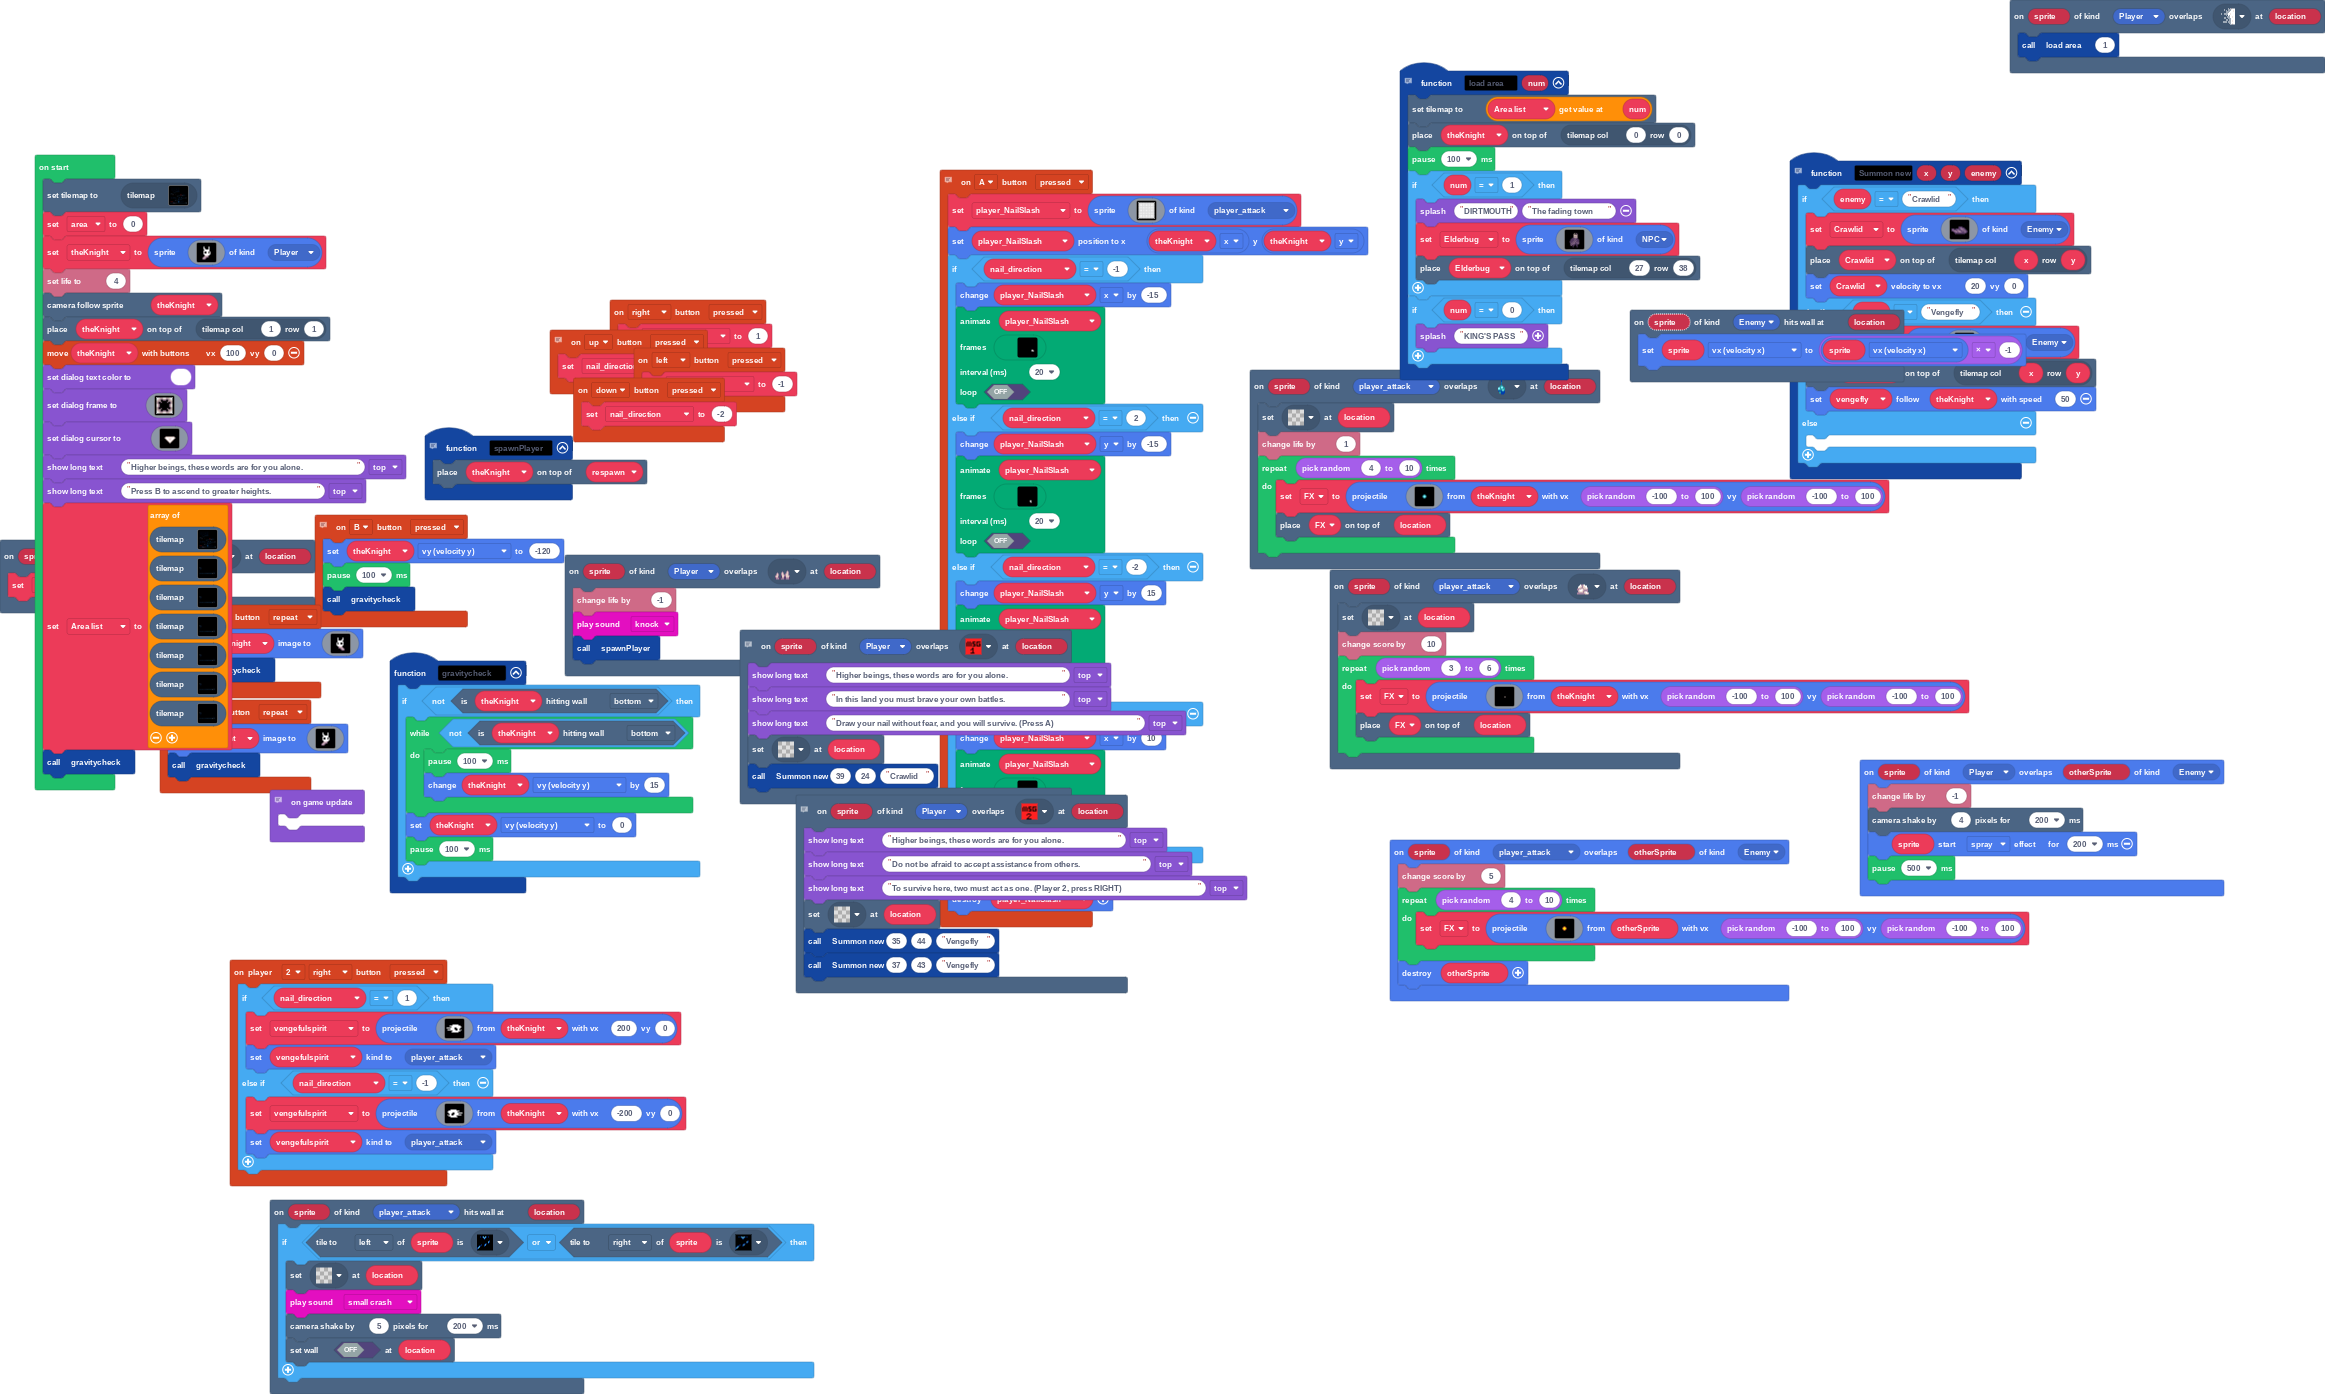
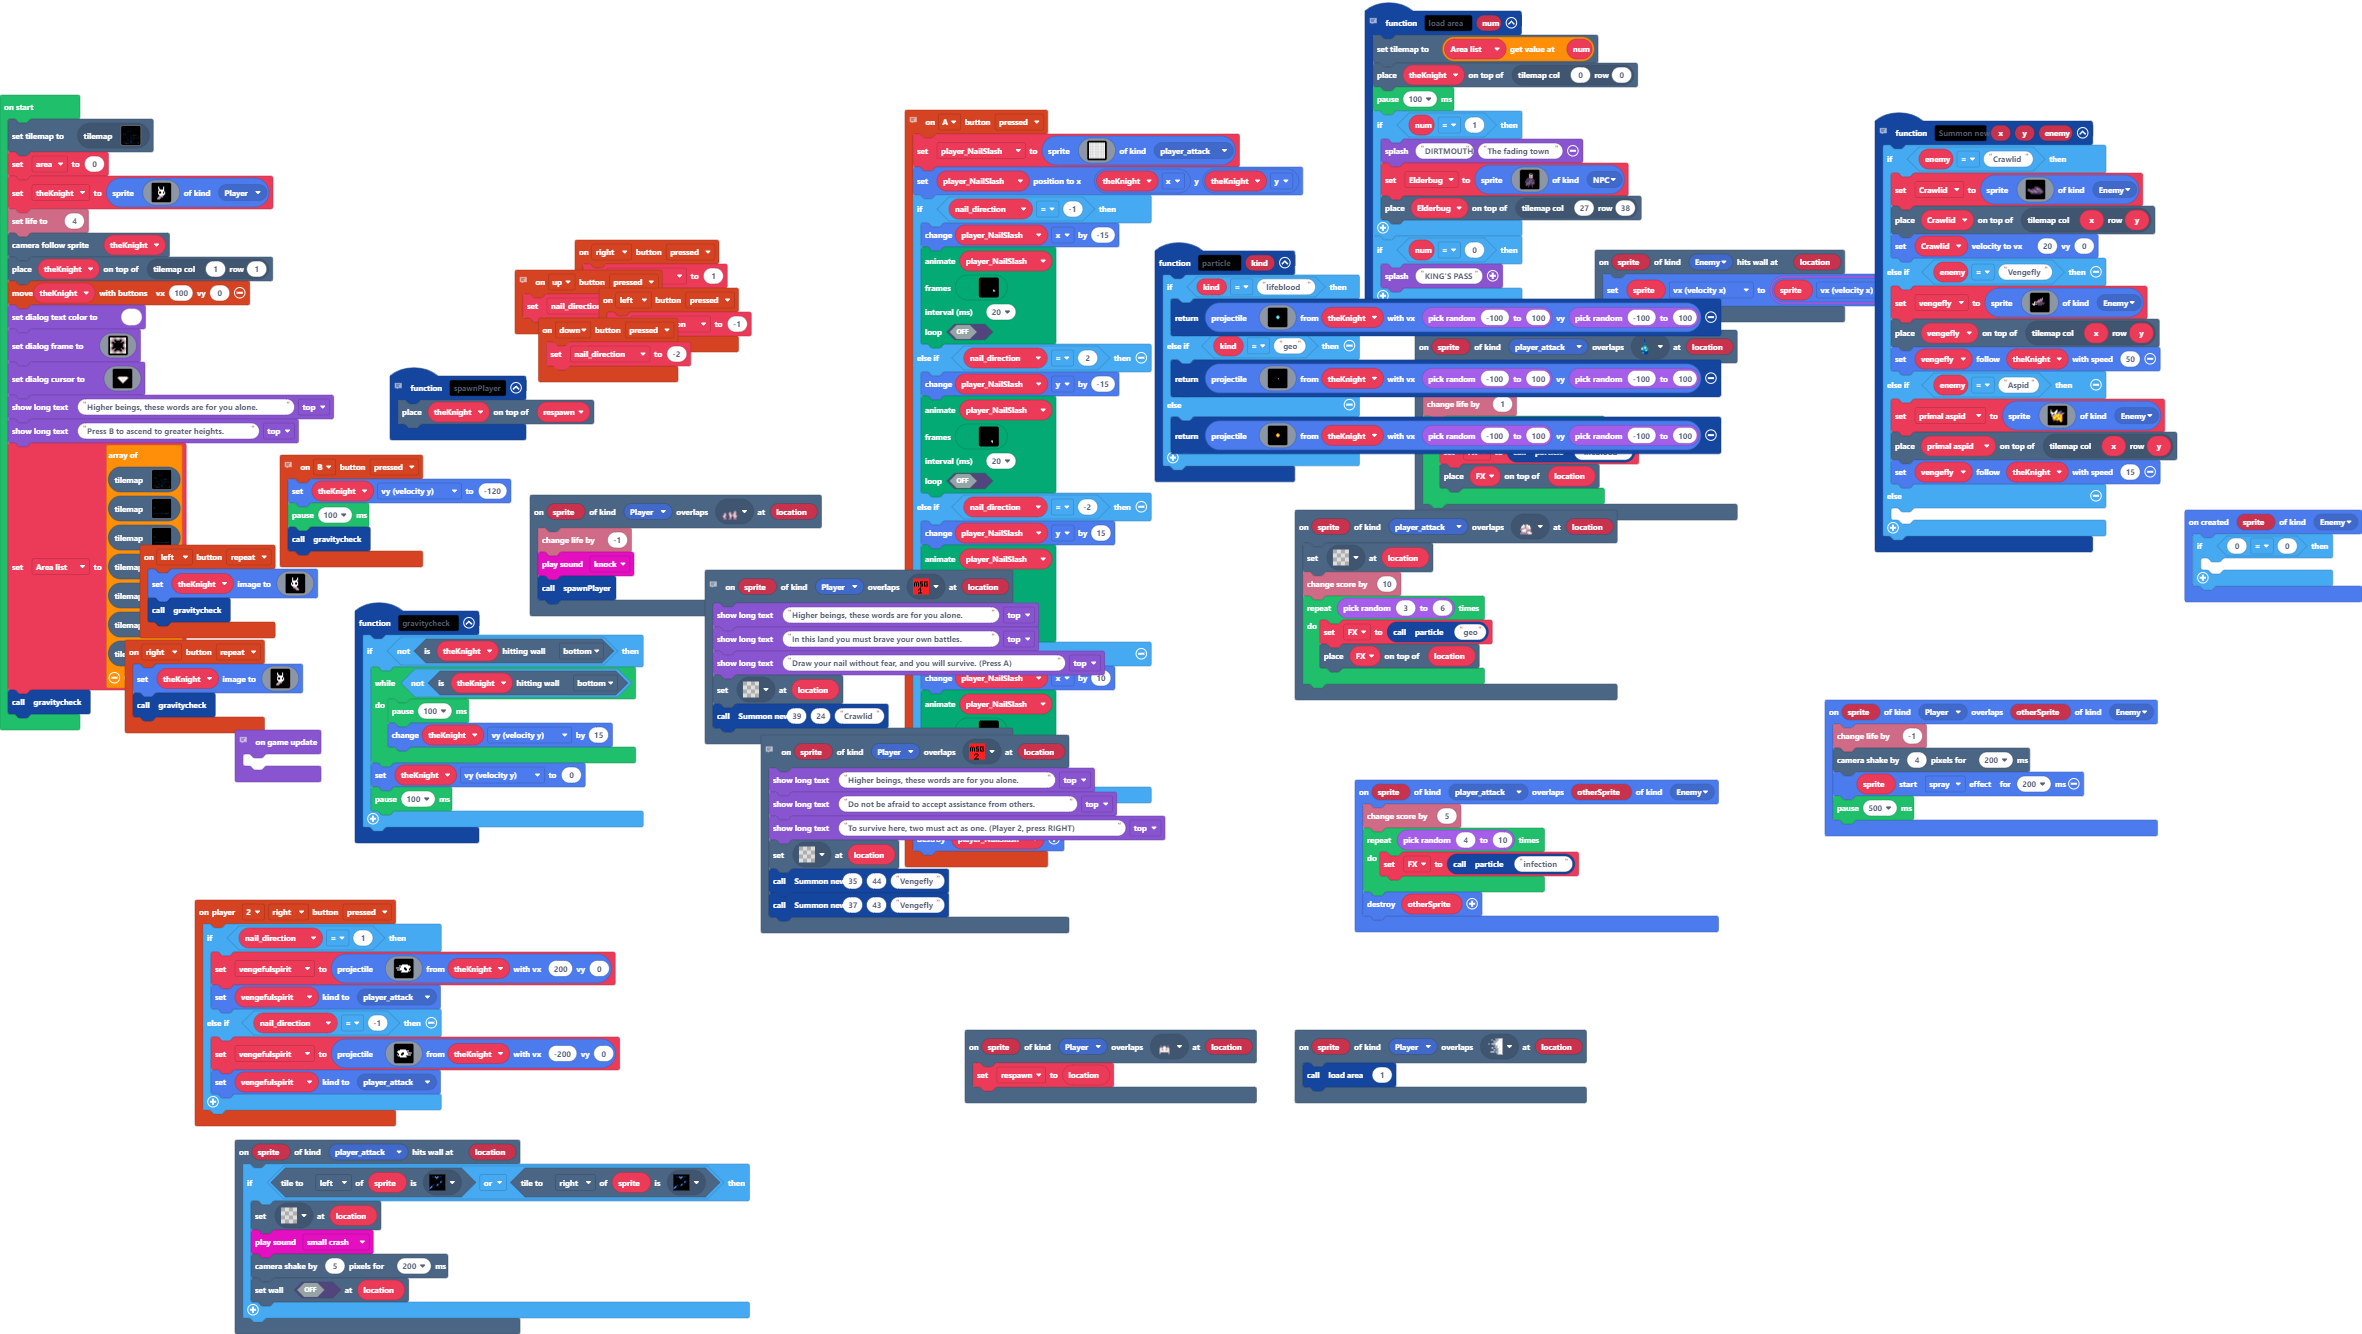
p

diff --git a/main.ts b/main.ts
@@ -2,6 +2,11 @@ namespace SpriteKind {
     export const player_attack = SpriteKind.create()
     export const NPC = SpriteKind.create()
 }
+sprites.onCreated(SpriteKind.Enemy, function (sprite) {
+    if (0 == 0) {
+    	
+    }
+})
 scene.onOverlapTile(SpriteKind.Player, assets.tile`light2`, function (sprite, location) {
     load_area(1)
 })
@@ -105,14 +110,23 @@ scene.onOverlapTile(SpriteKind.player_attack, assets.tile`lifeblood_cocoon`, fun
     tiles.setTileAt(location, assets.tile`transparency16`)
     info.changeLifeBy(1)
     for (let index = 0; index < randint(4, 10); index++) {
-        FX = sprites.createProjectileFromSprite(assets.image`lifeblood_particle`, theKnight, randint(-100, 100), randint(-100, 100))
+        FX = particle("lifeblood")
         tiles.placeOnTile(FX, location)
     }
 })
+function particle (kind: string) {
+    if (kind == "lifeblood") {
+        return sprites.createProjectileFromSprite(assets.image`lifeblood_particle`, theKnight, randint(-100, 100), randint(-100, 100))
+    } else if (kind == "geo") {
+        return sprites.createProjectileFromSprite(assets.image`geoparticle`, theKnight, randint(-100, 100), randint(-100, 100))
+    } else {
+        return sprites.createProjectileFromSprite(assets.image`infection_particle`, theKnight, randint(-100, 100), randint(-100, 100))
+    }
+}
 sprites.onOverlap(SpriteKind.player_attack, SpriteKind.Enemy, function (sprite, otherSprite) {
     info.changeScoreBy(5)
     for (let index = 0; index < randint(4, 10); index++) {
-        FX = sprites.createProjectileFromSprite(assets.image`infection_particle`, otherSprite, randint(-100, 100), randint(-100, 100))
+        FX = particle("infection")
     }
     otherSprite.destroy()
 })
@@ -136,7 +150,7 @@ scene.onOverlapTile(SpriteKind.player_attack, assets.tile`geo_cluster`, function
     tiles.setTileAt(location, assets.tile`transparency16`)
     info.changeScoreBy(10)
     for (let index = 0; index < randint(3, 6); index++) {
-        FX = sprites.createProjectileFromSprite(assets.image`geoparticle`, theKnight, randint(-100, 100), randint(-100, 100))
+        FX = particle("geo")
         tiles.placeOnTile(FX, location)
     }
 })
@@ -150,6 +164,10 @@ function Summon_new (x: number, y: number, enemy: string) {
         vengefly = sprites.create(assets.image`vengefly`, SpriteKind.Enemy)
         tiles.placeOnTile(vengefly, tiles.getTileLocation(x, y))
         vengefly.follow(theKnight, 50)
+    } else if (enemy == "Aspid") {
+        primal_aspid = sprites.create(assets.image`OBESE ASPID OF DOOM`, SpriteKind.Enemy)
+        tiles.placeOnTile(primal_aspid, tiles.getTileLocation(x, y))
+        vengefly.follow(theKnight, 15)
     } else {
     	
     }
@@ -189,6 +207,7 @@ controller.left.onEvent(ControllerButtonEvent.Repeated, function () {
     gravitycheck()
 })
 let respawn: tiles.Location = null
+let primal_aspid: Sprite = null
 let vengefly: Sprite = null
 let Crawlid: Sprite = null
 let FX: Sprite = null

diff --git a/images.g.ts b/images.g.ts
@@ -270,6 +270,25 @@ d d d d d c c c c c c c . . . .
 . . . . . . . . . . . . . . . . 
 . . . . . . . . . . . . . . . . 
 `;
+            case "image15":
+            case "OBESE ASPID OF DOOM":return img`
+. . . . . . . . . . . . . . . . 
+. . . . . . . . . . . . . . . . 
+. d . . . . . 1 . . . . . . . . 
+. d . . . . 1 1 . . . b . . . . 
+. d d . . 1 1 1 . b b b . . . . 
+. 1 1 1 1 1 1 . b b b . b b b . 
+. f 1 1 f d d 4 b 5 b b b b . . 
+. f d f d d 4 5 5 5 b 5 4 . . . 
+. . d d 4 4 5 5 5 4 4 5 4 . . . 
+. . . 4 5 5 5 4 5 4 4 5 4 . . . 
+. . . 4 5 5 4 c 5 5 5 5 4 . . . 
+. . . 4 4 5 c 5 5 5 5 4 4 . . . 
+. . . . 4 c 4 4 4 c 5 5 4 . . . 
+. . . . c . . . c . 4 5 4 . . . 
+. . . . . . . c . . . 4 . . . . 
+. . . . . . . . . . . . . . . . 
+`;
         }
         return null;
     })
